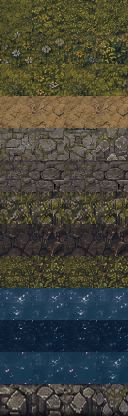
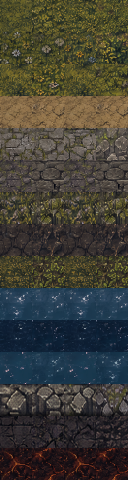
D2 secret lair: Quiet Hollow dragon door (generic sealDoor interactable: item -> flag) + secret arena map The Cinder Throne (zone CINDER, lava moat, dragon-stone floor, chain posts); lair props dr_* + valley skin ARENA / CORRUPT from the lair tileset (build-tiles per-row src); secret maps keep their

diff --git a/src/maps/ancientValley.js b/src/maps/ancientValley.js
@@ -8,12 +8,14 @@ import { T, Z, TILE, SOLID_TILES } from '../core/constants.js';
 // Beast's lair (A2 boss).
 //   main route : Valley Gate (south) -> Pine Terraces -> River Fords -> Statue Commons -> High Meadow -> Magma Rift
 //   side routes: Sunken Temple (west) · Golden Arch -> Gilded Shrine (east, loops back north) · Mirror Lake (south-west)
-//   hidden slot: Quiet Hollow (south-east, a narrow cleft off the Valley Gate) — content later (data/hidden.js)
+//   hidden slot: Quiet Hollow (south-east, a narrow cleft off the Valley Gate) = the SECRET LAIR: a scorched hollow with
+//   the sealed dragon door; behind it (north, zone CINDER) the Cinder Throne, Varkharon's arena (maps/cinderThrone.js)
 const G = T.GRASS, V = T.VALLEY, D = T.DIRT;
 
 export const VALLEY_PLACES = {
   gate: [84, 192], pines: [60, 158], fords: [98, 132], commons: [84, 104], temple: [34, 98], arch: [140, 118],
-  shrine: [138, 62], lake: [32, 166], upper: [80, 62], rift: [84, 22], hollow: [148, 176],
+  shrine: [138, 62], lake: [32, 166], upper: [80, 62], rift: [84, 22], hollow: [148, 178],
+  throne: [148, 151], // the Cinder Throne (secret arena) — floor r 12.5, lava moat to r 15.5, door at row 171
 };
 
 export function buildAncientValleyTerrain(b) {
@@ -31,7 +33,7 @@ export function buildAncientValleyTerrain(b) {
   const meadow = (p, rx, ry, t = G) => b.ellipse(p[0], p[1], rx, ry, t, { noise: 2.2 });
   meadow(P.gate, 13, 11); meadow(P.pines, 20, 13); meadow(P.fords, 18, 12); meadow(P.commons, 22, 15, V);
   meadow(P.temple, 18, 16); meadow(P.arch, 15, 13); meadow(P.shrine, 15, 12, V); meadow(P.lake, 17, 13);
-  meadow(P.upper, 18, 12); meadow(P.hollow, 6, 5);
+  meadow(P.upper, 18, 12);
   // flower patches
   for (const [x, y, rr] of [[54, 154, 4], [92, 100, 3], [132, 64, 3], [26, 162, 3], [88, 196, 2]]) b.disc(x, y, rr, T.FLOWERS, { only: [G, V] });
 
@@ -73,7 +75,23 @@ export function buildAncientValleyTerrain(b) {
     for (const i of before) m.tiles[i] = T.BRIDGE;
   }
   // the quiet cleft to the hidden hollow (narrow on purpose)
-  b.line([[94, 194], [120, 186], [142, 178]], 2, D, { noise: 0.3, seed: 41 });
+  b.line([[94, 194], [120, 186], [140, 179]], 2, D, { noise: 0.3, seed: 41 });
+
+  // ---------------- QUIET HOLLOW = the secret lair: scorched ground, cracks of lava light, the sealed dragon door
+  const [hx, hy] = P.hollow;
+  b.ellipse(hx, hy + 1, 9, 6, T.SCORCHED, { noise: 1.2 });
+  b.rect(hx - 3, hy - 7, hx + 3, hy - 5, T.SCORCHED); // the doorstep (the door itself stands on row hy - 7)
+  for (const [x, y] of [[hx - 4, hy + 2], [hx + 5, hy - 1], [hx + 1, hy + 4]]) b.disc(x, y, 1.6, T.CORRUPT, { noise: 0.6, only: [T.SCORCHED] });
+
+  // ---------------- THE CINDER THRONE (zone CINDER): round dragon-stone floor in a lava moat, carved into the high
+  // ground north of the hollow. One way in: the dragon door (an exit, not a path) -> the landing on its south side.
+  const [cx, cy] = P.throne;
+  b.disc(cx, cy, 15.5, T.LAVA, { noise: 0.7, seed: 61 });
+  b.disc(cx, cy, 12.5, T.ARENA, { noise: 0.3, seed: 62 });
+  b.line([[cx, cy + 11], [cx, cy + 16]], 5, T.ARENA, { noise: 0.2 });   // the landing over the moat
+  b.rect(cx - 2, cy + 15, cx + 2, cy + 16, T.STAIRS);
+  for (let k = 0; k < 7; k++) { const a = (k / 7) * Math.PI * 2 + 0.4, rr = 6 + (k % 3) * 2; b.disc(cx + Math.cos(a) * rr, cy + Math.sin(a) * rr, 1.4, T.CORRUPT, { noise: 0.5, only: [T.ARENA] }); }
+  for (let ty = cy - 18; ty <= cy + 16; ty++) for (let tx = cx - 18; tx <= cx + 18; tx++) if (m.inBounds(tx, ty)) m.zone[m.idx(tx, ty)] = Z.CINDER;
 
   // ---------------- MAGMA RIFT = the A2 boss arena (its own map: maps/magmaRift.js, zone RIFT above row 41). A round
   // fighting ground as large as the Guardian's, ringed by a lava moat, one road in from the south (like A1's arena)
@@ -86,7 +104,7 @@ export function buildAncientValleyTerrain(b) {
   for (let ty = 0; ty <= 41; ty++) for (let tx = 58; tx <= 110; tx++) b.m.zone[b.m.idx(tx, ty)] = Z.RIFT;
 
   // ---------------- sub-areas (banners, map labels)
-  const sub = { gate: [P.gate, 13], pines: [P.pines, 18], fords: [P.fords, 14], commons: [P.commons, 18], temple: [P.temple, 16], arch: [P.arch, 14], shrine: [P.shrine, 13], lake: [P.lake, 15], upper: [P.upper, 14], rift: [[rx, ry], 21], hollow: [P.hollow, 7] };
+  const sub = { gate: [P.gate, 13], pines: [P.pines, 18], fords: [P.fords, 14], commons: [P.commons, 18], temple: [P.temple, 16], arch: [P.arch, 14], shrine: [P.shrine, 13], lake: [P.lake, 15], upper: [P.upper, 14], rift: [[rx, ry], 21], hollow: [P.hollow, 9] };
   for (const [k, [[x, y], rr]] of Object.entries(sub)) b.subDisc(x, y, rr, A[k]);
 
   // ---------------- landmarks + ruins (owner's A2 props)
@@ -105,6 +123,42 @@ export function buildAncientValleyTerrain(b) {
   b.prop('v_lamp_post', 92, 196, {}); b.light(92, 195, 50, '#ffd890', { a: 0.4 });
   b.prop('v_cascade', 116, 70, {});
 
+  // ---------------- the secret lair (owner's lair sheet 'dr_*'): the dragon door, braziers, the rumour statue
+  b.prop('dr_door', hx, hy - 7, { scale: 0.55, solid: true, footprint: [[-4, 0], [-3, 0], [3, 0], [4, 0]] });
+  // spiked walls + spires either side hide the edges of the door's painted backdrop and make it read as a gatehouse
+  for (const s of [-1, 1]) {
+    b.prop('dr_wall_spiked', hx + s * 9, hy - 7, { scale: 0.75, solid: true, footprint: [[-2, 0], [-1, 0], [0, 0], [1, 0], [2, 0]] });
+    b.prop('dr_spire', hx + s * 13, hy - 7, { solid: true, flip: s > 0 });
+    b.prop('dr_lavarock_b', hx + s * 8, hy - 10, { flip: s > 0 });
+  }
+  for (const dx of [-5, 5]) { b.prop('dr_brazier_spiked', hx + dx, hy - 5, { solid: true }); b.light(hx + dx, hy - 6, 70, '#ff6a20', { a: 0.6, flicker: true }); }
+  b.prop('dr_gargoyle', hx - 7, hy + 1, { solid: true, scale: 0.8 });
+  b.prop('dr_crack_a', hx + 4, hy + 3, { layer: 'ground', scale: 0.6 });
+  b.prop('dr_skeleton', hx + 6, hy + 4, { layer: 'ground', scale: 0.7 });
+  b.prop('dr_rocks_a', hx - 8, hy + 5, {}); b.prop('dr_rocks_b', hx + 9, hy, {});
+  b.light(hx, hy - 6, 110, '#ff4a10', { a: 0.45, flicker: true });
+  // the throne: seal under the dragon, braziers round the rim, chain posts (Varkharon's anchors), statues on the cliffs
+  b.prop('dr_seal_rune', cx, cy + 3, { layer: 'ground', scale: 1.5 });
+  for (let k = 0; k < 8; k++) {
+    const a = (k / 8) * Math.PI * 2 + Math.PI / 8;
+    if (Math.abs(a - Math.PI / 2) < 0.5) continue; // the landing stays clear
+    const x = cx + Math.cos(a) * 12, y = cy + Math.sin(a) * 12;
+    b.prop(k % 2 ? 'dr_brazier_a' : 'dr_brazier_round', Math.round(x), Math.round(y), { solid: true });
+    b.light(Math.round(x), Math.round(y) - 1, 70, '#ff6a20', { a: 0.55, flicker: true });
+  }
+  b.regions.cinderAnchors = [];
+  for (const [ax, ay] of [[cx, cy - 10], [cx - 10, cy - 1], [cx + 10, cy - 1]]) {
+    b.prop('dr_chain_lantern', ax, ay, { solid: true });
+    b.regions.cinderAnchors.push({ x: (ax + 0.5) * TILE, y: (ay + 1) * TILE });
+  }
+  b.prop('dr_statue_gargoyle', cx, cy - 17, { scale: 0.9 });
+  b.prop('dr_statue_dragon', cx - 13, cy - 13, { scale: 0.8 }); b.prop('dr_statue_dragon', cx + 13, cy - 13, { scale: 0.8, flip: true });
+  for (const [x, y, n] of [[cx - 6, cy - 16, 'dr_banner_a'], [cx + 6, cy - 16, 'dr_banner_b'], [cx - 16, cy - 4, 'dr_cage_a'], [cx + 16, cy - 4, 'dr_cage_b'], [cx - 15, cy + 8, 'dr_spire'], [cx + 15, cy + 8, 'dr_lavarock_a']]) b.prop(n, x, y, {});
+  b.prop('dr_skeleton', cx - 6, cy + 7, { layer: 'ground', scale: 0.8 });
+  for (let i = 0; i < 16; i++) { const a = (i / 16) * Math.PI * 2; b.light(cx + Math.cos(a) * 14, cy + Math.sin(a) * 14, 80, '#ff5a10', { a: 0.5, flicker: true }); }
+  b.light(cx, cy, 190, '#ff6a20', { a: 0.28, flicker: true });
+  b.regions.cinderThrone = { x: (cx + 0.5) * TILE, y: (cy + 0.5) * TILE };
+
   // ---------------- vegetation: pines on the terraces and the high ground at their rims, bushes, flowers
   const PINES = ['v_pine_a', 'v_pine_b', 'v_pine_c', 'v_pine_d', 'v_pine_e', 'v_pine_f', 'v_pine_g', 'v_pine_h', 'v_pine_i'];
   const keep = [...Object.values(P).map(([x, y]) => [x, y, 6]), ...roads.flat().map(([x, y]) => [x, y, 3])];
@@ -115,7 +169,7 @@ export function buildAncientValleyTerrain(b) {
   // the high ground: pines and rocks just behind the cliff rims (never on open ground)
   const open = (x, y) => m.inBounds(x, y) && !SOLID_TILES.has(m.get(x, y));
   for (let ty = 2; ty < m.h - 2; ty++) for (let tx = 2; tx < m.w - 2; tx++) {
-    if (m.get(tx, ty) !== T.CLIFF) continue;
+    if (m.get(tx, ty) !== T.CLIFF || m.zone[m.idx(tx, ty)] === Z.CINDER) continue; // no pines round the lava moat
     let near = false;
     for (let dy = -3; dy <= 3 && !near; dy++) for (let dx = -3; dx <= 3; dx++) if (open(tx + dx, ty + dy)) { near = true; break; }
     if (!near || !r.chance(0.16)) continue;

diff --git a/tools/extract-props.js b/tools/extract-props.js
@@ -21,14 +21,33 @@ const CP = '../City/ASTERIA CITY/image-6fbe1327-6060-4dcf-be43-116029029bdb-0';
 const B1P = '../B/B1/image-53b4c9a1-506f-42b5-904f-7281d8bc5b1f-0';
 const B2P = '../B/B2/image-b4a161fc-56d2-45fc-9b60-7300aa39c577-0';
 const B3P = '../B/B3/image-e8e42a4f-cf0e-4610-8207-6e224b047dca-0';
-const SCALE = { [A2P]: 0.5, [A3P]: 0.5, [B1P]: 0.5, [B2P]: 0.5, [B3P]: 0.5 }; // the city sheet (CP) stays full size: its buildings are drawn large
+const DRP = '../A/a2/SC/DRAGON/image-1e3f0fef-1571-4868-b296-d7673ea2e55d-0'; // A2 secret lair (Varkharon): near-black sheet
+const SCALE = { [DRP]: 0.5, [A2P]: 0.5, [A3P]: 0.5, [B1P]: 0.5, [B2P]: 0.5, [B3P]: 0.5 }; // the city sheet (CP) stays full size: its buildings are drawn large
 // sheets whose background is not the navy of the old sets: their own background test. `fillHoles` = box mode keeps
 // background-coloured pixels enclosed by the prop (dark grey stone inside the city buildings)
 const GREY_BG = (r, g, b) => { const l = (r + g + b) / 3; return l >= 24 && l <= 58 && Math.max(r, g, b) - Math.min(r, g, b) <= 8; };
 const NAVY_DEEP = (r, g, b) => r <= 20 && g >= 20 && g <= 42 && b >= 46 && b <= 66 && b - g >= 14;
-const SHEET_BG = { [CP]: GREY_BG, [B3P]: NAVY_DEEP };
-const FILL_HOLES = new Set([CP]);
+const NEAR_BLACK = (r, g, b) => Math.max(r, g, b) <= 15 && b >= r;
+const SHEET_BG = { [CP]: GREY_BG, [B3P]: NAVY_DEEP, [DRP]: NEAR_BLACK };
+const FILL_HOLES = new Set([CP, DRP]);
 const MANIFEST = {
+  // ---- A2 secret lair: the Cinder Throne (Varkharon). Boxes in the sheet's pixels; 'dr_*'
+  dr_door: [DRP, 1128, 0, 1952, 628],
+  dr_fence_post: [DRP, 30, 985, 95, 1100], dr_wall_a: [DRP, 118, 980, 300, 1100], dr_wall_spiked: [DRP, 325, 995, 615, 1110], dr_fence_iron: [DRP, 645, 985, 820, 1110],
+  dr_brazier_round: [DRP, 28, 1135, 130, 1290], dr_brazier_a: [DRP, 150, 1130, 235, 1290], dr_brazier_b: [DRP, 258, 1150, 338, 1290],
+  dr_brazier_c: [DRP, 360, 1140, 440, 1290], dr_brazier_d: [DRP, 458, 1150, 550, 1290], dr_brazier_e: [DRP, 572, 1140, 672, 1290],
+  dr_brazier_f: [DRP, 700, 1140, 800, 1290], dr_brazier_g: [DRP, 820, 1160, 898, 1290], dr_brazier_spiked: [DRP, 918, 1140, 1038, 1290],
+  dr_seal_lava: [DRP, 18, 1335, 252, 1540], dr_seal_rune: [DRP, 270, 1335, 510, 1540], dr_platform: [DRP, 528, 1315, 802, 1550],
+  dr_slab_a: [DRP, 828, 1330, 972, 1550], dr_slab_b: [DRP, 998, 1330, 1118, 1550],
+  dr_pillar_chain: [DRP, 1135, 660, 1380, 955], dr_banner_a: [DRP, 1410, 675, 1515, 955], dr_banner_b: [DRP, 1545, 675, 1665, 955],
+  dr_banner_c: [DRP, 1680, 675, 1800, 955], dr_chain_lantern: [DRP, 1815, 660, 1905, 955], dr_cage_hang: [DRP, 1915, 660, 2020, 955],
+  dr_totem: [DRP, 1290, 980, 1440, 1300], dr_gargoyle: [DRP, 1450, 980, 1580, 1300], dr_statue_dragon: [DRP, 1600, 985, 1800, 1300], dr_statue_gargoyle: [DRP, 1800, 1000, 2030, 1300],
+  dr_lavarock_a: [DRP, 10, 1575, 190, 1800], dr_lavarock_b: [DRP, 180, 1575, 330, 1800], dr_crack_a: [DRP, 370, 1580, 620, 1800], dr_crack_b: [DRP, 620, 1580, 830, 1800],
+  dr_blocks: [DRP, 840, 1590, 1140, 1790], dr_spire: [DRP, 1167, 1585, 1331, 1790], dr_chain_floor: [DRP, 1428, 1600, 1567, 1790],
+  dr_banner_d: [DRP, 1576, 1590, 1680, 1790], dr_banner_e: [DRP, 1690, 1590, 1802, 1790],
+  dr_rocks_a: [DRP, 15, 1800, 140, 1930], dr_rocks_b: [DRP, 140, 1800, 290, 1930],
+  dr_skeleton: [DRP, 850, 1838, 1137, 2025], dr_brazier_bowl: [DRP, 1377, 1818, 1475, 1912],
+  dr_cage_a: [DRP, 1500, 1800, 1588, 2025], dr_cage_b: [DRP, 1608, 1800, 1705, 2025], dr_cage_c: [DRP, 1740, 1800, 1843, 2025], dr_chains_hang: [DRP, 1874, 1800, 2038, 2025],
   // ---- forest
   tree_small_a: [F, 35, 90], tree_small_b: [F, 78, 88],
   tree_pine_a: [F, 140, 90], tree_round_a: [F, 190, 85], tree_round_b: [F, 240, 90], tree_teal_a: [F, 240, 145],

diff --git a/src/maps/fieldA2.js b/src/maps/fieldA2.js
@@ -13,6 +13,14 @@ const PLAQUE = [
   'The road climbs north past the river fords to the statue of the last king.',
   'Beyond the high meadow the ground still burns. Travellers do not go there.',
 ].join('\n');
+// the Quiet Hollow's gargoyle: the first hint of the secret boss (the Ashen Pilgrim's quest tells the rest)
+const EMBER_RUMOUR = [
+  'Words cut into the gargoyle\'s plinth, still warm to the touch:',
+  '"Here the kings of the valley chained the Cinder King beneath their summer court.',
+  ' Three cinders of his crown were carried far — to the old forest, to this valley, to the city of runes.',
+  ' Who brings them home breaks the seal. Who breaks the seal will burn."',
+  'Behind you the dragon door breathes, slow and hot, like something asleep.',
+].join('\n');
 
 export const FIELD_A2 = {
   id: 'a2', name: 'ANCIENT VALLEY', short: 'A2', sub: 'Route A · A2 — Ancient Valley · Lv. 14 – 26',
@@ -27,6 +35,16 @@ export const FIELD_A2 = {
     interactables: [
       { id: 'a2_gate_plaque', kind: 'sign', tx: 88, ty: 191, prompt: 'Read Plaque', title: 'Valley Gate', text: PLAQUE },
       { id: 'ws_a2_gate', kind: 'waystone', tx: 79, ty: 194, name: 'Valley Gate', prompt: 'Waystone' },
+      // QUIET HOLLOW (secret lair): the rumour gargoyle + the sealed dragon door (generic `sealDoor`: item -> flag)
+      { id: 'a2_ember_rumour', kind: 'sign', tx: 141, ty: 180, prompt: 'Read the Inscription', title: 'The Gargoyle\'s Plinth', text: EMBER_RUMOUR },
+      {
+        id: 'a2_dragon_door', kind: 'sealDoor', tx: 148, ty: 172, prompt: 'Touch the Dragon Door', flag: 'cinderSealBroken', item: 'varkharon_seal', consume: true,
+        title: 'The Dragon Door',
+        locked: 'A door of black stone under a dragon\'s head. Its eyes are coals. In the centre, a hollow shaped like a dragon\'s seal — empty.\n\nThe door does not move. Something on the other side is breathing.',
+        opening: 'You press Varkharon\'s Seal into the hollow. The coals in the dragon\'s eyes flare white, the runes run like molten gold — and the door grinds open on a stair climbing into red light.',
+        open: 'The dragon door stands open. Heat rolls down the stair beyond it.',
+        banner: ['THE SEAL IS BROKEN', 'The Cinder Throne awaits', '#ff7a30'],
+      },
     ],
     // packs per terrace: the Valley Gate stays quiet; armadillos on the open terraces, rhinos guard the ruins
     spawns: [
@@ -53,6 +71,15 @@ export const FIELD_A2 = {
   },
   exits: [
     { id: 'south_road', rect: [80, 202, 88, 203], to: 'arena', entry: [136, 14.5], label: 'Guardian Arena' },
+    {
+      id: 'cinder_door', rect: [146, 171, 150, 171], to: 'cinder', entry: [148, 165], label: 'Dragon Door', // the name stays a secret
+      requires: [{ type: 'flag', flag: 'cinderSealBroken', label: 'Sealed — a dragon-shaped hollow waits for its seal' }],
+      confirm: {
+        title: 'The Cinder Throne',
+        text: 'The stair climbs into red light. Something vast lies coiled at the top — and it is waking.\nOnce it rises, the door seals behind you until one of you falls.\n\nClimb to the Cinder Throne?',
+        yes: 'Climb', no: 'Not yet',
+      },
+    },
     {
       id: 'rift_gate', rect: [81, 43, 87, 43], to: 'rift', entry: [84, 38], label: 'Magma Rift',
       confirm: {

diff --git a/tools/build-tiles.js b/tools/build-tiles.js
@@ -20,6 +20,7 @@ const A3 = 'desgin/Map/A/a3/image-092dabfa-467b-48b0-901c-8dad361ac42e-0';
 const CITY = 'desgin/Map/City/ASTERIA CITY/image-c0f27881-0e5a-4221-ab7f-192ea8b07205-0';
 const B3 = 'desgin/Map/B/B3/image-9f857ead-dee4-45da-90c6-536a066b2a3b-0';
 const B2 = 'desgin/Map/B/B2/image-76690731-d973-441f-ba7f-1b03cda9b3eb-0';
+const DRT = 'desgin/Map/A/a2/SC/DRAGON/image-097bd277-76c5-4f9d-af5e-906c6ea9c94d-0'; // A2 secret lair tileset (Varkharon)
 const B1 = 'desgin/Map/B/B1/image-4e5b0ee7-22d6-4f86-96e0-1b8e9df7ebb6-0';
 
 // skin -> sheet + rows. Each row: [name, region [x0, y0, x1, y1] (sheet px), picks (card indices in reading order)]
@@ -43,6 +44,9 @@ const SKINS = {
       ['DEEP_WATER', [15, 983, 625, 1117], [0, 1, 0, 1]],
       ['SHALLOW', [15, 983, 625, 1117], [4, 3, 4, 2]],
       ['face:cliff', [981, 1262, 1338, 1350], [0, 1, 2, 3]],
+      // the Cinder Throne (secret lair): dark dragon-stone floor + lava-cracked stone, cut by box from the lair sheet
+      ['ARENA', null, [[276, 633, 340, 699], [359, 633, 425, 699], [276, 716, 340, 780], [359, 716, 425, 780]], { src: DRT }],
+      ['CORRUPT', null, [[320, 1280, 433, 1398], [320, 1422, 433, 1538], [320, 1280, 433, 1398], [320, 1422, 433, 1538]], { src: DRT }],
     ],
   },
   // A3 RUNE CITADEL (owner's sheet desgin/Map/A/a3): dark stone + bronze gold, grid cards ~72 px
@@ -249,11 +253,12 @@ const outDir = path.join(ROOT, 'assets/tiles');
 fs.mkdirSync(outDir, { recursive: true });
 const meta = {};
 for (const [id, skin] of Object.entries(SKINS)) {
-  const img = png.read(sheetPath(skin.src));
-  measureBg(img); BG_MODE = skin.bg || 'navy';
+  const sheet = png.read(sheetPath(skin.src));
+  measureBg(sheet); BG_MODE = skin.bg || 'navy';
   const atlas = png.create(TILE * VARIANTS, TILE * skin.rows.length);
   const rows = {};
-  skin.rows.forEach(([name, region, picks], r) => {
+  skin.rows.forEach(([name, region, picks, opts = {}], r) => {
+    const img = opts.src ? png.read(sheetPath(opts.src)) : sheet; // row `src`: a second sheet (card boxes only)
     const list = region ? cards(img, region) : [];
     const face = name.startsWith('face:');
     const tiles = picks.map((k) => {

diff --git a/src/exploration/interactables.js b/src/exploration/interactables.js
@@ -153,6 +153,23 @@ export function interact(w, it) {
       }
       g.ui.showLore('The Sealed Depths', 'A colossal door of violet crystal, veined with the same corruption that poisoned the Guardian. Runes crawl across its surface, rearranging themselves as you watch.\n\nIt will not open. Not yet.', () => g.ui.showEnding());
       break;
+    // generic SEALED DOOR (data: flag, item, consume, title, locked / opening / open texts, banner): bringing the item
+    // sets the flag (an exit / gate names it in its requirements); without it the door only describes itself
+    case 'sealDoor':
+      if (f[it.flag]) { g.ui.showLore(it.title, it.open); break; }
+      if (it.item && g.inventory.has(it.item)) {
+        if (it.consume) g.inventory.remove(it.item, 1);
+        w.setFlag(it.flag);
+        w.applyState();
+        g.audio.sfx('gate');
+        g.camera.shake(0.6);
+        g.vfx.flash('255,120,40', 0.45, 2);
+        g.vfx.burst(it.x, it.y - 40, '#ff8a30', 70, 220);
+        if (it.banner) g.ui.banner(...it.banner);
+        g.ui.showLore(it.title, it.opening);
+        g.save.dirty = true;
+      } else g.ui.showLore(it.title, it.locked);
+      break;
     case 'crackInfo':
       g.ui.showLore('Cracked Stone', 'Violet light seeps through the cracks and the stone hums faintly. It looks brittle — as if a strong strike would bring it down.');
       break;

diff --git a/src/maps/cinderThrone.js b/src/maps/cinderThrone.js
@@ -1,0 +1,18 @@
+import { Z } from '../core/constants.js';
+
+// THE CINDER THRONE — A2's SECRET boss arena: the lair of Varkharon, the Sealed Cinder King. It is not on the route:
+// the only way in is the dragon door in the Quiet Hollow (A2, south-east cleft off the Valley Gate), which stays sealed
+// until the player brings Varkharon's Seal (three Cinder Shards from the Ashen Pilgrim) — the door is an interactable
+// (`sealDoor`, exploration/interactables.js) that sets the flag the A2 exit asks for. Hidden from the world map until
+// visited (`secret`). Terrain: maps/ancientValley.js (zone CINDER, round dragon-stone floor in a lava moat). The fight
+// itself (boss data, mechanics) arrives in D4; `regions.cinderAnchors` = the three chain posts its fight will use.
+export const CINDER_THRONE = {
+  id: 'cinder', name: 'THE CINDER THRONE', short: 'Secret', sub: 'A2 · Secret · where the Cinder King was sealed', grid: 'ancient_valley',
+  type: 'boss_arena', route: 'A', parent: 'a2', secret: true,
+  requires: [],
+  region: { zones: [Z.CINDER] },
+  spawn: [148, 165],
+  exits: [
+    { id: 'throne_stairs', rect: [146, 167, 150, 167], to: 'a2', entry: [148, 174], label: 'Quiet Hollow' },
+  ],
+};

diff --git a/src/maps/mapRegistry.js b/src/maps/mapRegistry.js
@@ -4,6 +4,7 @@ import { MAJOR_BOSS_ARENA } from './majorBossArena.js';
 import { VALEHAVEN } from './valehaven.js';
 import { FIELD_A2 } from './fieldA2.js';
 import { MAGMA_RIFT } from './magmaRift.js';
+import { CINDER_THRONE } from './cinderThrone.js';
 import { FIELD_A3 } from './fieldA3.js';
 import { SANCTUM } from './sanctum.js';
 import { CITY2 } from './city2.js';
@@ -27,5 +28,5 @@ import { SUMMIT } from './summit.js';
 //   hiddenAreas: data/hidden.js ids that live here (route panel "secrets found"; content = data/hidden.js)
 //   corruptedMonsters (true | { minTy, maxTy }) / monsterMods [{ zones, mod }]: how hard spawns are, by part of the map
 //   exits / spawn / region / content: see maps/luminaVillage.js
-export const MAPS = [LUMINA_VILLAGE, FIELD_A1, MAJOR_BOSS_ARENA, VALEHAVEN, FIELD_A2, MAGMA_RIFT, FIELD_A3, SANCTUM, CITY2, FIELD_B1, FROST_ARENA_MAP, FIELD_B2, CRYSTAL_HEART, FIELD_B3, SUMMIT];
+export const MAPS = [LUMINA_VILLAGE, FIELD_A1, MAJOR_BOSS_ARENA, VALEHAVEN, FIELD_A2, MAGMA_RIFT, CINDER_THRONE, FIELD_A3, SANCTUM, CITY2, FIELD_B1, FROST_ARENA_MAP, FIELD_B2, CRYSTAL_HEART, FIELD_B3, SUMMIT];
 export const START_MAP = 'lumina';

diff --git a/src/items/items.js b/src/items/items.js
@@ -185,6 +185,8 @@ export const ITEMS = {
   // boss trophies (data/bosses.js rewards.items) — lore materials for later crafting
   hollow_fang_pelt: { name: 'Hollow Fang Pelt', cat: 'Material', rarity: 'rare', icon: 'fang', color: '#ffb070', desc: 'Trophy of Hollow Fang, the alpha that denned by the River Crossing.', sell: 60 },
   warchief_totem: { name: 'Thornbound Totem', cat: 'Material', rarity: 'epic', icon: 'rune', color: '#b060ff', desc: 'Trophy of the Thornbound Elder. Its thorns still twitch toward the ruins.', sell: 120 },
+  cinder_shard: { name: 'Cinder Shard', cat: 'Quest Item', rarity: 'quest', icon: 'rune', color: '#ff7a30', desc: 'A splinter of black stone, warm as a coal. The Ashen Pilgrim said there are three.' },
+  varkharon_seal: { name: "Varkharon's Seal", cat: 'Quest Item', rarity: 'quest', icon: 'sigil', color: '#ff5a20', desc: 'Three cinder shards fused into a dragon-headed seal. A door in the Ancient Valley is waiting for it.' },
   seal_fragment: { name: 'Ancient Seal Fragment', cat: 'Quest Item', rarity: 'quest', icon: 'rune', color: '#5af0ff', desc: 'Resonates with the sealed Guardian Gate.' },
 };
 

diff --git a/src/core/constants.js b/src/core/constants.js
@@ -57,6 +57,7 @@ export const Z = {
   CAVERN_HEART: 16, // B2 boss arena (the Heart of the Caverns)
   FROSTPEAK: 17, // B3 Frostpeak grid (world/levels/frostpeak.js)
   PEAK_SUMMIT: 18, // B3 major boss arena (the Summit Citadel)
+  CINDER: 19, // A2 secret boss arena: the Cinder Throne (Varkharon, maps/cinderThrone.js)
 };
 
 export const ZONE_INFO = {
@@ -78,6 +79,7 @@ export const ZONE_INFO = {
   [Z.CAVERN_HEART]: { name: 'HEART OF THE CAVERNS', sub: 'Route B · B2 Boss', music: 'gate' },
   [Z.FROSTPEAK]: { name: 'FROSTPEAK', sub: 'Route B · the mountain above the caverns', music: 'peak' },
   [Z.PEAK_SUMMIT]: { name: 'THE SUMMIT CITADEL', sub: 'Route B · B3 Major Boss', music: 'gate' },
+  [Z.CINDER]: { name: 'THE CINDER THRONE', sub: 'Secret · where the Cinder King was sealed', music: 'gate' },
 };
 
 export const TEAM = { PLAYER: 1, ENEMY: 2, NEUTRAL: 3 };

diff --git a/tools/testkit.js b/tools/testkit.js
@@ -209,6 +209,8 @@ export function mapTour(g, classId = 'umbral_sword') {
   ok('New Game starts on Lumina', w.mapId === 'lumina');
   for (const f of ['ruinsGate', 'logBridge', 'bramble', 'gateOpened', 'guardianDefeated']) w.setFlag(f);
   for (const b of g.bosses.list) g.worldProgress.defeatBoss(b.id); // V2.2 boss gates: every road open for the tour
+  // exits sealed by a flag (the A2 dragon door: cinderSealBroken) open too
+  for (const def of mm.list) for (const e of def.exits) for (const r of Array.isArray(e.requires) ? e.requires : []) if (r.type === 'flag') w.setFlag(r.flag);
   w.applyState();
   const events = [];
   g.events.on('mapEntered', (e) => events.push(e.id));

diff --git a/src/ui/hud.js b/src/ui/hud.js
@@ -730,7 +730,7 @@ export class HUD {
       const to = w.mapManager.get(e.to);
       if (!w.transitions.isOpen(e)) {
         if (w.inBossFight()) continue;
-        this.text(ctx, `✕ ${to ? to.name : e.label} — LOCKED`, s.x, s.y, 9 * u, '#ff9a8a', { align: 'center' });
+        this.text(ctx, `✕ ${to && !to.secret ? to.name : e.label} — LOCKED`, s.x, s.y, 9 * u, '#ff9a8a', { align: 'center' });
         const why = w.transitions.lockReason(e);
         if (why) this.text(ctx, why, s.x, s.y + 12 * u, 8 * u, '#c8b0b0', { align: 'center' });
         continue;

diff --git a/src/render/renderer.js b/src/render/renderer.js
@@ -110,6 +110,7 @@ export class Renderer {
       case Z.CAVERN_HEART: return { r: 14, g: 6, b: 30, a: 0.45 };
       case Z.FROSTPEAK: return { r: 18, g: 26, b: 48, a: 0.22 };
       case Z.PEAK_SUMMIT: return { r: 16, g: 22, b: 50, a: 0.3 };
+      case Z.CINDER: return { r: 40, g: 6, b: 4, a: 0.42 };
     }
     return { r: 10, g: 10, b: 20, a: 0.4 };
   }
